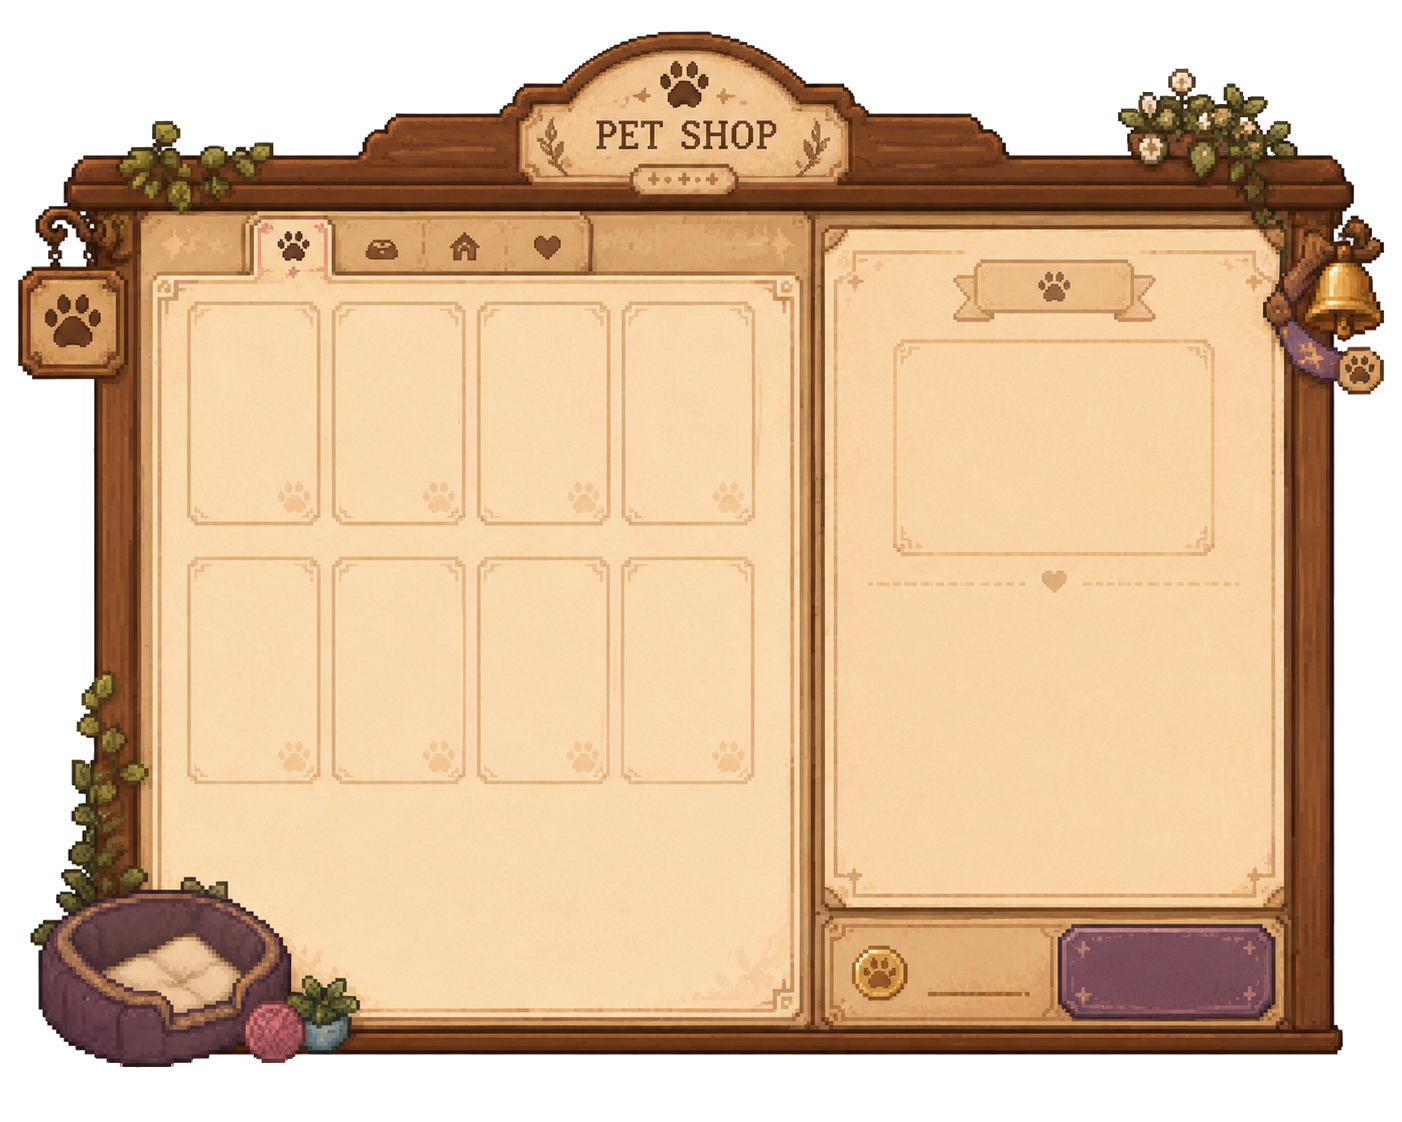
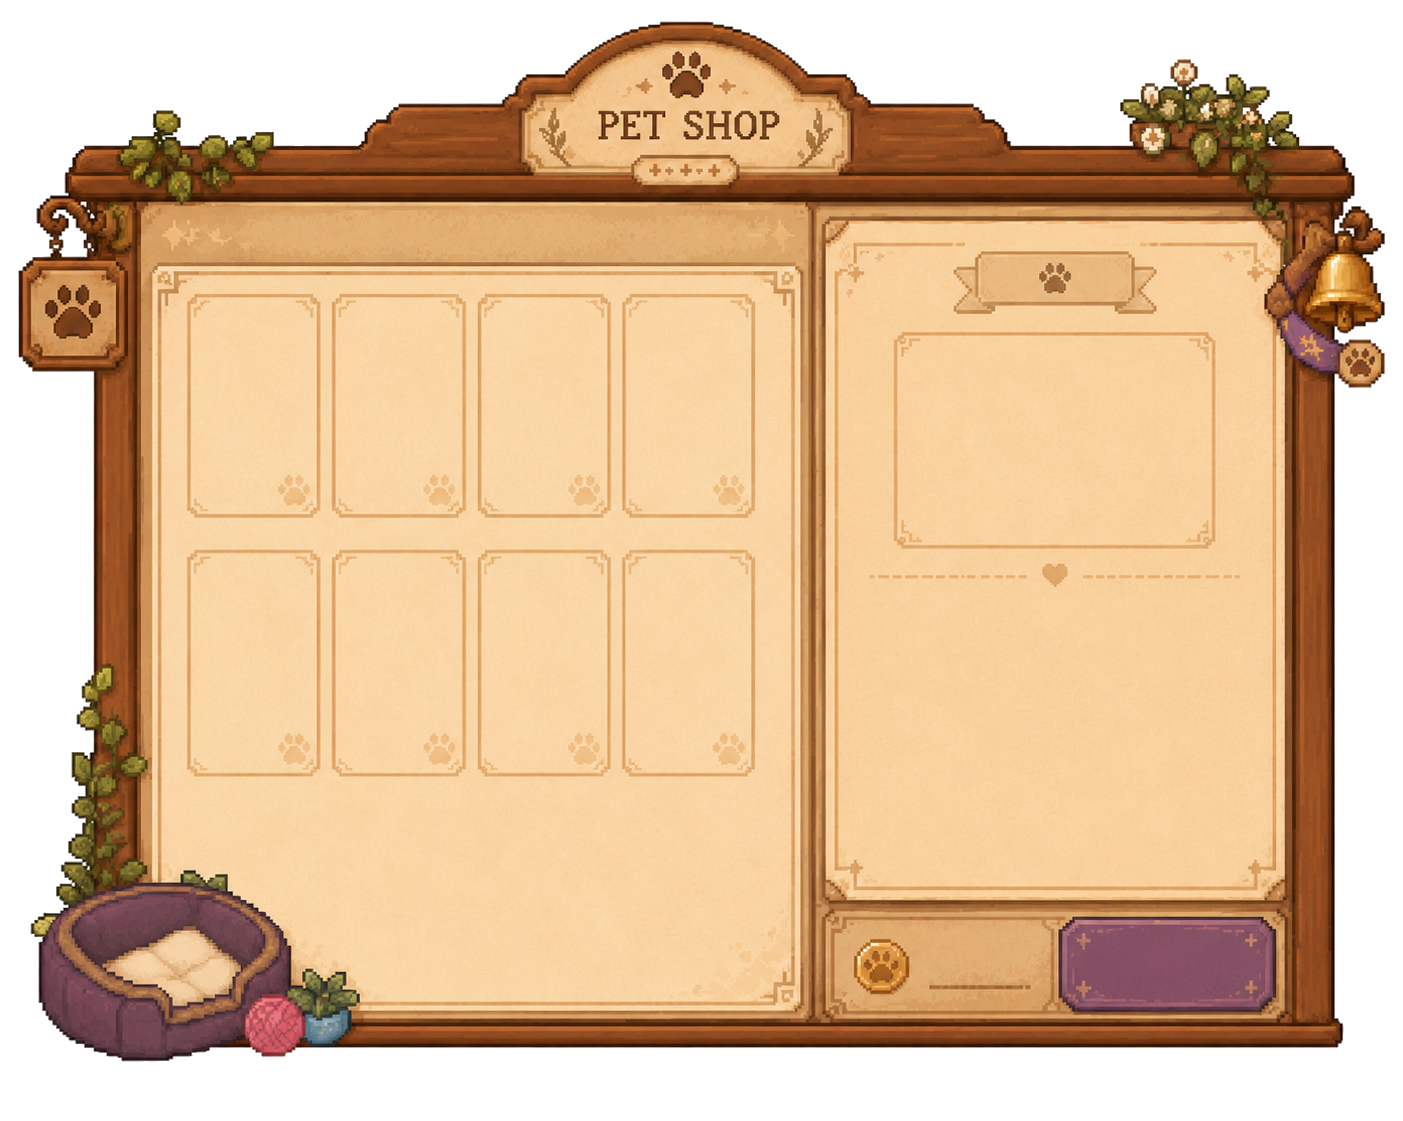
feat(pet-shop): add pet shop with adoptable NPC pets
fix(pet-shop): count owned pets from npcs instead of pets.owned

Starter rabbits/cats are added directly in initialState.js, not
via BUY_PET, so they were never reflected in state.pets.owned. The
"My Pets" badge counts then excluded all starter pets.

Changed:
- PetShopPanel.jsx: derive ownedCounts from state.npcs.rabbits and
  state.npcs.cats instead of state.pets.owned, so the count reflects
  every pet actually present in the cafe (starters + adopted)

diff --git a/src/components/cafe/PetShopPanel.jsx b/src/components/cafe/PetShopPanel.jsx
@@ -17,10 +17,15 @@ export default function PetShopPanel({ onClose }) {
   const [activeTab, setActiveTab] = useState('all');
   const [selectedPet, setSelectedPet] = useState(PET_LIST[0]);
 
-  const ownedCounts = (state.pets?.owned ?? []).reduce((acc, p) => {
-    acc[p.type] = (acc[p.type] ?? 0) + 1;
-    return acc;
-  }, {});
+  const ownedCounts = {};
+  for (const rabbit of state.npcs.rabbits) {
+    const type = rabbit.mood === 'happy' ? 'happy_rabbit' : rabbit.mood === 'sleepy' ? 'sleepy_rabbit' : null;
+    if (type) ownedCounts[type] = (ownedCounts[type] ?? 0) + 1;
+  }
+  for (const cat of state.npcs.cats) {
+    const type = cat.mood === 'curious' ? 'curious_cat' : cat.mood === 'lazy' ? 'lazy_cat' : null;
+    if (type) ownedCounts[type] = (ownedCounts[type] ?? 0) + 1;
+  }
 
   const filteredPets = PET_LIST.filter((pet) => {
     if (activeTab === 'owned')  return (ownedCounts[pet.type] ?? 0) > 0;
